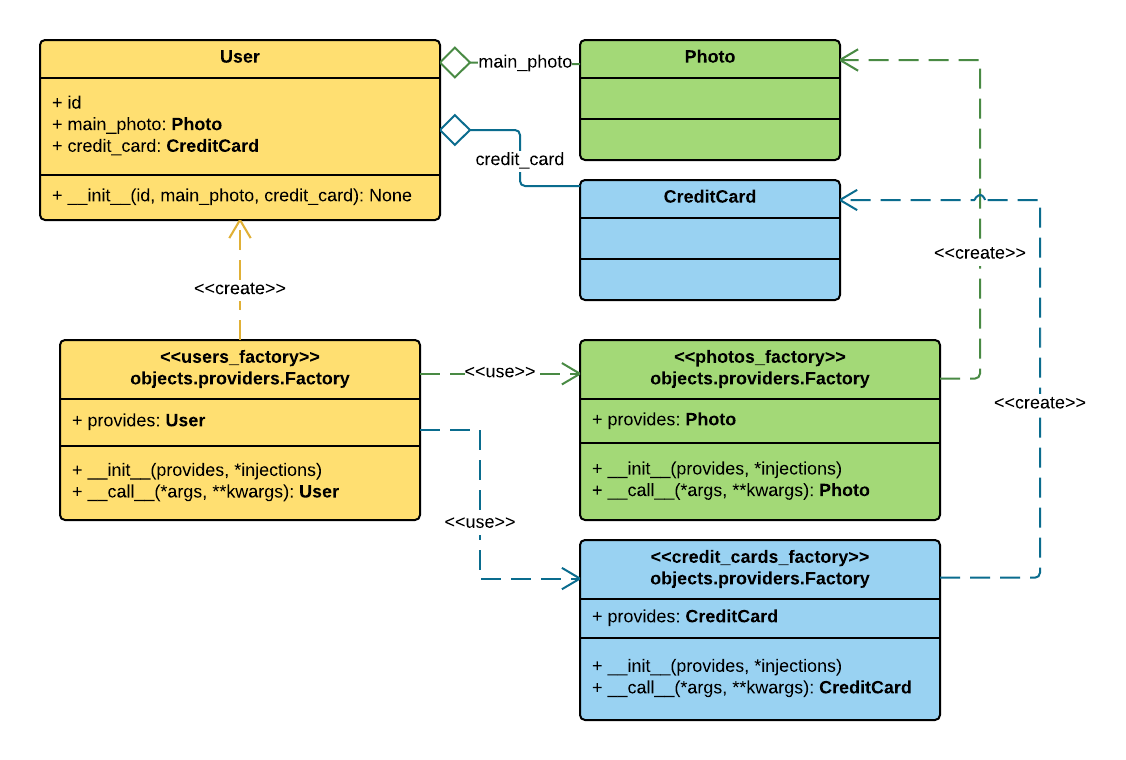
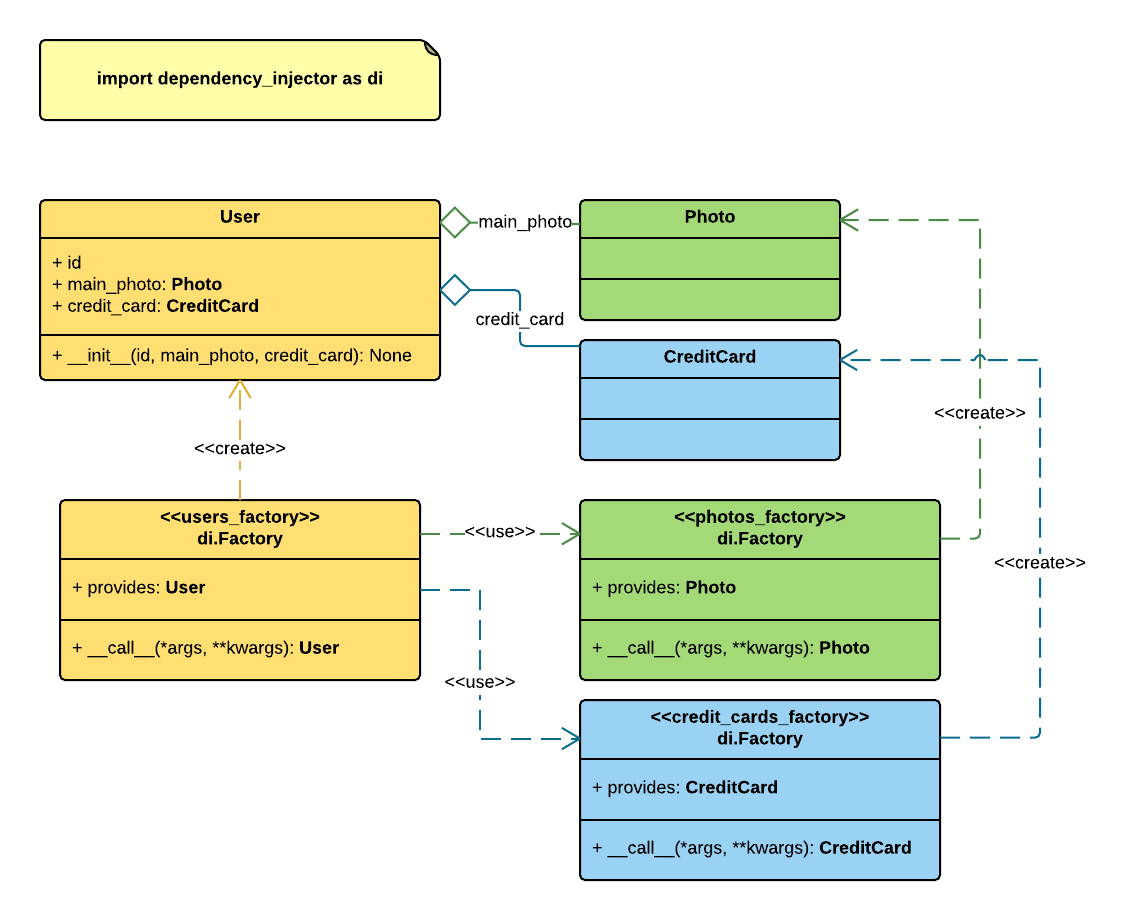
Update Factory provider docs

diff --git a/examples/providers/factory_init_injections_and_contexts.py b/examples/providers/factory_init_injections_and_contexts.py
@@ -1,7 +1,6 @@
-"""`Factory` providers with init injections and context arguments example."""
+"""`di.Factory` providers with init injections priority example."""
 
-from dependency_injector.providers import Factory
-from dependency_injector.injections import KwArg
+import dependency_injector as di
 
 
 class User(object):
@@ -34,11 +33,11 @@ class CreditCard(object):
     """Example class CreditCard."""
 
 # User, Photo and CreditCard factories:
-credit_cards_factory = Factory(CreditCard)
-photos_factory = Factory(Photo)
-users_factory = Factory(User,
-                        KwArg('main_photo', photos_factory),
-                        KwArg('credit_card', credit_cards_factory))
+credit_cards_factory = di.Factory(CreditCard)
+photos_factory = di.Factory(Photo)
+users_factory = di.Factory(User,
+                           main_photo=photos_factory,
+                           credit_card=credit_cards_factory)
 
 # Creating several User objects:
 user1 = users_factory(1)
@@ -62,7 +61,7 @@ assert isinstance(user2.credit_card, CreditCard)
 assert user1.main_photo is not user2.main_photo
 assert user1.credit_card is not user2.credit_card
 
-# Context keyword arguments have priority on KwArg injections priority:
+# Context keyword arguments have priority on keyword argument injections:
 main_photo_mock = Photo()
 credit_card_mock = CreditCard()
 

diff --git a/examples/providers/factory_init_injections.py b/examples/providers/factory_init_injections.py
@@ -1,7 +1,6 @@
-"""`Factory` providers with init injections example."""
+"""`di.Factory` providers with init injections example."""
 
-from dependency_injector.providers import Factory
-from dependency_injector.injections import KwArg
+import dependency_injector as di
 
 
 class User(object):
@@ -19,9 +18,9 @@ class Photo(object):
     """Example class Photo."""
 
 # User and Photo factories:
-photos_factory = Factory(Photo)
-users_factory = Factory(User,
-                        KwArg('main_photo', photos_factory))
+photos_factory = di.Factory(Photo)
+users_factory = di.Factory(User,
+                           main_photo=photos_factory)
 
 # Creating several User objects:
 user1 = users_factory()  # Same as: user1 = User(main_photo=Photo())

diff --git a/docs/providers/factory.rst b/docs/providers/factory.rst
@@ -12,42 +12,33 @@ Nothing could be better than brief example:
 .. literalinclude:: ../../examples/providers/factory.py
    :language: python
 
-Factory providers and injections
-~~~~~~~~~~~~~~~~~~~~~~~~~~~~~~~~
-
-Objects can take dependencies in different forms. Some objects take init
-arguments, other are using attributes setting or method calls to be
-initialized. It affects how such objects need to be created and initialized,
-and that is the place where ``dependency_injector.injections`` need to be used.
-
-``Factory`` provider takes various number of positional arguments, that define
-what kind of dependency injections need to be done.
-
-All of those instructions are defined in ``dependency_injector.injections`` 
-module and are subclasses of ``dependency_injector.injections.Injection``. 
-There  are several types of injections that are used by ``Factory`` provider:
-
-+ ``KwArg`` - injection is done by passing injectable value in object's
-  ``__init__()`` method in time of object's creation via keyword argument.
-  Takes keyword name of ``__init__()`` argument and injectable value.
-+ ``Attribute`` - injection is done by setting specified attribute with
-  injectable value right after object's creation. Takes attribute's name
-  and injectable value.
-+ ``Method`` - injection is done by calling of specified method with
-  injectable value right after object's creation and attribute injections
-  are done. Takes method name and injectable value.
-
-All ``Injection``'s injectable values are provided *"as is"*, except of
-providers. Providers will be called every time, when injection needs to be
-done.
-
-
 Factory providers and __init__ injections
 ~~~~~~~~~~~~~~~~~~~~~~~~~~~~~~~~~~~~~~~~~
 
-Example below shows how to create ``Factory`` of particular class with
-``__init__`` keyword argument injections which injectable values are also
-provided by another factories:
+``di.Factory`` takes a various number of keyword arguments that are 
+transformed into keyword argument injections. Every time, when ``di.Factory`` 
+creates new one instance, keyword argument injections would be passed as an
+instance's keyword arguments. 
+
+All injectable values are provided *"as is"*, except of providers (subclasses 
+of ``di.Provider``). Providers will be called every time, when injection needs 
+to be done. For example, if injectable value of keyword argument injection is a
+``di.Factory``, it will provide new one instance (as a result of its call) as 
+an injectable value every time, when injection needs to be done.
+
+Example below is a little bit more complicated. It shows how to create 
+``di.Factory`` of particular class with ``__init__`` keyword argument 
+injections which injectable values are also provided by another factories:
+
+.. note:: 
+
+    Current keyword argument injections syntax (in an example below) is a 
+    **simplified one**. Full syntax and other types of injections could be 
+    found in sections below.
+
+    While keyword argument injections may be the best way of passing 
+    injections, current simplified syntax might be the preferable one and 
+    could be widely used.
 
 .. image:: /images/providers/factory_init_injections.png
     :width: 90%
@@ -56,11 +47,14 @@ provided by another factories:
 .. literalinclude:: ../../examples/providers/factory_init_injections.py
    :language: python
 
-Next example shows how ``Factory`` provider deals with positional and keyword
-``__init__`` context arguments. In few words, ``Factory`` provider fully
-passes positional context arguments to class's ``__init__`` method, but
-keyword context arguments have priority on ``KwArg`` injections (this could be
-useful for testing).
+Factory providers and __init__ injections priority
+~~~~~~~~~~~~~~~~~~~~~~~~~~~~~~~~~~~~~~~~~~~~~~~~~~
+
+Next example shows how ``di.Factory`` provider deals with positional and 
+keyword ``__init__`` context arguments. In few words, ``di.Factory`` 
+provider fully passes positional context arguments to class's ``__init__`` 
+method, but keyword context arguments have priority on predefined keyword 
+argument injections.
 
 So, please, follow the example below:
 
@@ -68,6 +62,35 @@ So, please, follow the example below:
 
 .. literalinclude:: ../../examples/providers/factory_init_injections_and_contexts.py
    :language: python
+
+
+Factory providers and other types of injections
+~~~~~~~~~~~~~~~~~~~~~~~~~~~~~~~~~~~~~~~~~~~~~~~
+
+Objects can take dependencies in different forms(some objects take init
+arguments, other use attributes setting or method calls). It affects how 
+such objects are created and initialized.
+
+``di.Factory`` provider takes various number of positional and keyword 
+arguments, that define what kinds of dependency injections have to be used.
+
+All of those instructions are defined in ``di.injections`` module and are 
+subclasses of ``di.injections.Injection`` (shortcut ``di.Injection``). There 
+are several types of injections that are used by ``di.Factory`` provider:
+
++ ``di.KwArg`` - injection is done by passing injectable value in object's
+  ``__init__()`` method in time of object's creation via keyword argument.
+  Takes keyword name of ``__init__()`` argument and injectable value.
++ ``di.Attribute`` - injection is done by setting specified attribute with
+  injectable value right after object's creation. Takes attribute's name
+  and injectable value.
++ ``di.Method`` - injection is done by calling of specified method with
+  injectable value right after object's creation and attribute injections
+  are done. Takes method name and injectable value.
+
+All ``di.Injection``'s injectable values are provided *"as is"*, except of
+providers (subclasses of ``di.Provider``). Providers will be called every time,
+when injection needs to be done.
 
 Factory providers and attribute injections
 ~~~~~~~~~~~~~~~~~~~~~~~~~~~~~~~~~~~~~~~~~~
